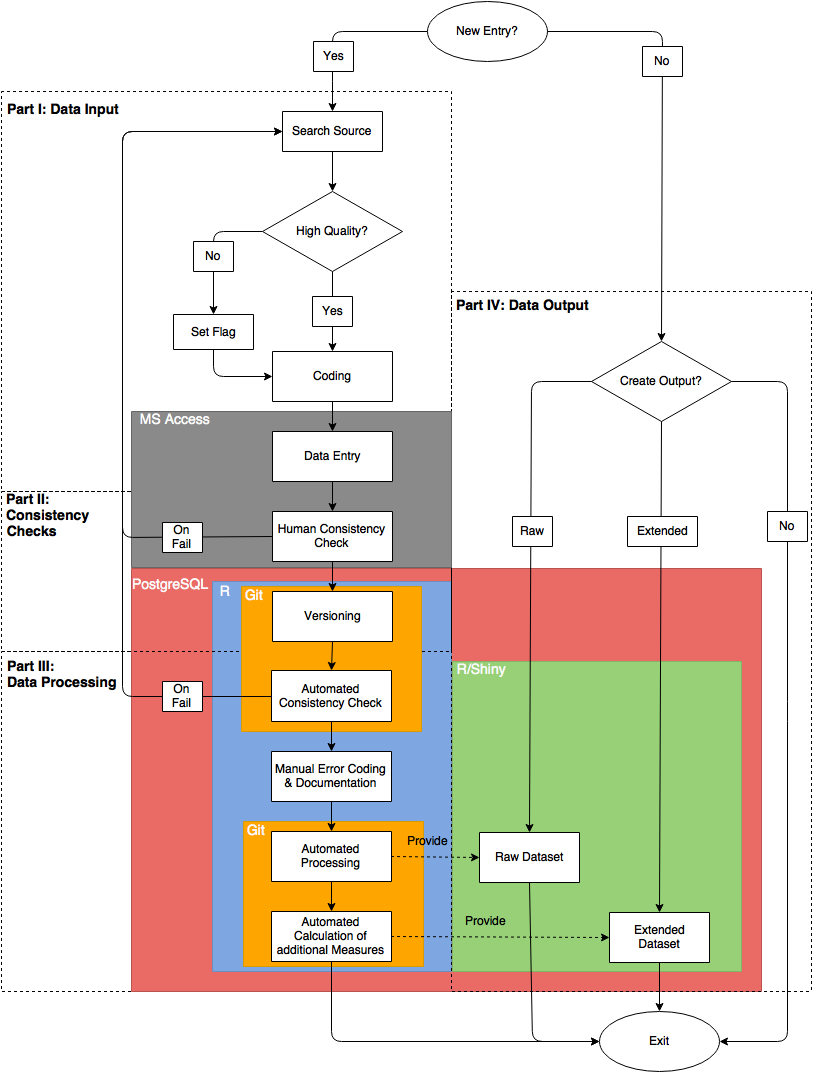
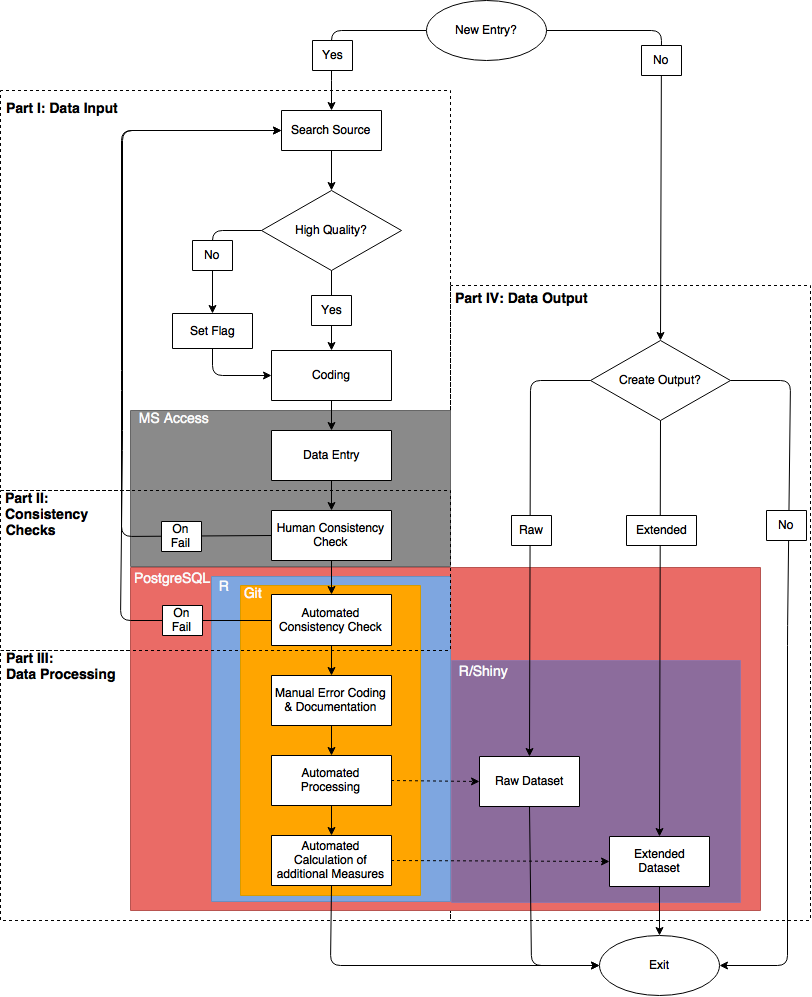
Updated Diagram and Text - Ready for revision - Minor changes in the diagram are still necessary

diff --git a/md/draft.md b/md/draft.md
@@ -15,7 +15,7 @@ members in a standardized and easily accessible format.
 Originally, the data were used to observe and analyze the
 consolidation processes in Eastern and Middle European
 democracies. The project has since grown into a
-database that includes more than seventy countries around
+database that includes more than eighty countries around
 the world between 1945 and today.
 
 The database keeps track of diverse aspects of political
@@ -59,221 +59,57 @@ for secondary analyses.
 
 !["Workflow diagram of our database"](./GovElec_Workflow_May2k16.png)
 
-Our workflow {~~can be distinguished->has~~} {--into--} four
-separate steps. {++Data first have to be hand coded. Second,
-codings go through different human supervised and automated
-consistency checks. Third, the newly generated data are
-processed before storing them in our back-end database.
-Finally, information can be outputted from our database. All
-steps ++} {--which--} can be fulfilled independently of each
-other. Apart from the single steps of the workflow, the
-colored areas document the software and tools that is used
-in each step. Our team consists of one student assistant,
-two research fellows as well ons senior research fellow.
-While the first is responsible for the coding and input of
-the data as well as some basic consistency checks, automated
-data tests as well as processing are maintained by our
-research fellows. A codebook lists the majority of coding
-decisions that are needed to enter the data correctly by our
-research assistant.
+Our workflow has four separate steps. Data first have to be hand coded. Second,
+codings go through different human supervised and automated consistency checks. Third, the newly generated data are processed before storing them in our back-end database. Finally, information can be outputted from our database. All
+steps can be fulfilled independently of each other.
 
-In general, we are concerned with three basic challenges
-while collecting, coding and processing our data: reduce
-coding errors, maintain a high degree of intercoder
-reliability and provide a transparent documentation of
-coding decisions and data processing. The following
-paragraphs will specifically focus on these challenges.
+Our team consists of one student assistant, two research fellows and one senior researcher. While the first is responsible for the coding and input of the data as well as some basic consistency checks, automated data tests and processing are maintained by our research fellows. In general, we are concerned with three basic challenges while collecting, coding and processing our data: reduce coding errors, maintain a high degree of intercoder reliability and provide transparency on the entire decision-making process. The following
+paragraphs will focus on these challenges.
 
-\textbf{Part I:}
+The first decision to be made is whether a new observation needs to be added to the dataset. For that purpose we collect all upcoming elections and government formations for our sample of 82 countries in the world. Once a new data entry is necessary, sources are identified by the coder that contain information on party histories, election results and/or government events. Evaluating the quality of the source is essential since only documents which provide us with information as disaggregated as possible guarantee that we can reliably and correctly code the respective data. For that purpose, a list of high quality sources is included in a codebook that also lists all coding decisions. If, due to lack of reliable sources, information from non-identified documents is used, these data entries are flagged in order to identify more reliable sources in the future. This is for instance the case if election results are documented as aggregated vote and seat shares instead of as absolute numbers. Once a source has been identified, the data is coded manually following the rules of the codebook.
 
-{--As can be seen in the workflow diagram, t--}
-The first decision to be made is whether a new observation
-needs to be added to the dataset. For that purpose we
-identify all upcoming elections and government formations
-within our country sample of 70(???) countries in the world.
-Once a new data entry is necessary, adequate sources have to
-be identified by the coder in order to ensure the correct
-documentation of party histories, election results and/or
-government events.
+In the following the data is entered into a _Microsoft Access_ Database and the source (including the coding decisions) is saved on a server which can be assessed by all users of the output-datasets. Although MS Access is not a free software-tool, it provides a) a relational database that can be easily maintained by research fellows and b) a user interface that makes the data entry clear and easily understandable. Hence, due its form-based structure the _MS Access_ interface serves as a standardized coding structure that reduces error and increases intercoder reliability. Moreover, the _MS Access_ interface allows to perform basic consistency checks which enable the coder to easily evaluate the reliability of sources. To give two examples: One such check routine is to verify that the sum of the documented number of votes equals the total number of valid votes given in the source. Another consistency check tests if the seat share of all parties in a coalition government does correspond to the documented type of government. If one of these checks fails, new sources have to be considered in order to reach an error-free documentation of the data.
 
-Evaluating the quality of the source is essential for us
-since only those election and government documents that
-provide us with information as disaggregated as possible
-guarantee that we can reliably and correctly code the
-respective data. For that purpose, a list of high quality
-sources is included in the codebook. If, due to lack of
-reliable sources, information from non-identified sources
-has been used, these data entries are flagged in order to
-identify more reliable sources in the future. Once a source
-has been identified, the data is coded manually following
-the rules of the codebook.
+After the data entry has been finalized, it is automatically exported to a PostgreSQL-Database which allows us to store the entire dataset and to put it under version control using _Git_. Changes to the dataset are thus documented on a daily basis. At the same time, automated, more complex consistency checks are performed by making use of the open source statistic software _R_ (https://www.r-project.org/). Based on these, pdf reports are created using the _R_-package _knitr_ (http://yihui.name/knitr/) and send to one of our research
+fellows. These reports document all new data entries, all data changes and failed consistency checks. Due to this, the work of our coder can easily be tracked by experienced colleagues and possible coding errors are spotted immediately.
 
-\textbf{Part II:}
+After that, manual error coding is conducted and documented. In spite of our aspiration to exclusively collect data from high quality sources certain inconsistencies cannot be avoided. For example, sometimes we cannot identify the seats controlled by a coalition government in the parliament since its member parties have contested the previous election in different electoral pacts for which no individual party seat shares are provided. These and other cases are identified by the automated R-scripts. However due to the diversity of inconsistencies and reasons for them, they are manually flagged and documented.
 
-Based on this the data is entered into a Microsoft Access
-Database and the source (including the coding decisions) is
-saved on a server which can be assessed by all users of the
-dataset. Although MS Access is not a free software, tool, it
-provides a) a relational database that can be easily
-maintained by research fellows and b) a user interface that
-makes the data entry clear and easily understable even for
-new coders. Hence, our student assistants can quickly
-acquire the knowledge necessary to document the data with
-the codebook, while the MS Access interface serves as a
-\textcolor{red}{{++standardized++} coding structure} that
-reduces error{--s--} and facilitates a high{--er--} degree
-of intercoder reliability.
+Following this, the R-scripts process the data, i.e. they join different tables and drop irrelevant variables, in order to provide a raw dataset that includes basically all data entries without any additional measures. Based on this raw dataset, further additional calculations are conducted in order to provide an extended dataset that includes common measures in the discipline (like turnout, the effective number of parties, measurements of
+disproportionality or government stability).
 
-\textbf{Part III:}
+After these steps are finished, both datasets are publicly accessible via Shiny-Interface (http://shiny.rstudio.com/) which allows the end-user to browse and download the raw as well as the extended dataset. In addition the aforementioned codebook of the database can be downloaded in order to guarantee a high transparency of coding decisions.
 
-Moreover, the MS Access interface allows to perform basic
-consistency checks with the consequence that the coder can
-easily evaluate the reliability of the used sources and its
-information. As can be seen in the workflow diagram, if
-these checks fail, new sources have to be considered in
-order to reach an error-free documentation of the data.
-
-After the data entry has been finalized by the coder, the
-data is automatically \textcolor{red}{exported} to a
-PostgreSQL-Database which allows us to store the dataset and
-to put it under version control. {~~On a daily basis,
-c->C~~}hanges {~~in->to~~} the dataset are documented {++on
-a daily basis++}. At the same time, automated, more complex
-consistency checks are performed by making use of the open
-source statistic software
-R.\footnote{https://www.r-project.org/.} Based on these, pdf
-reports are created using the R-package
-\textit{knitr}\footnote{\textit{knitr}
-(http://yihui.name/knitr/) allows to create dynamic \LaTeX-
-documents with R.} and send to one of our research
-fellows/seniors(?). These include a documentation of all new
-data entries, of all data changes as well as a list of
-failed consistency checks. Due to this, the work of our
-coder {~~is->can~~} easily {~~trackable->be tracked~~} by
-experienced colleagues and possible coding errors
-{~~can->are~~} easily {~~detected->spotted~~}.
-
-Apart from performing consistency checks, the R-scripts also
-process the data, i.e. {++they++} join different tables and
-drop irrelevant variables, in order to provide a raw dataset
-which includes basically all data entries without any
-additional measures. After that, manual error coding is
-conducted and documented if no high-quality source is
-available or the correct coding of the data fails for some
-other reasons (e.g. specific electoral systems). Based on
-this raw dataset, further additional calculations are
-conducted using R in order to provide an extended dataset
-that includes additional common measures in the discipline
-(such as the effective number of parties, the Gallagher
-“Least Squares Index” or the Balance of powers Index).
-
-\textbf{Part IV:}
-
-After these steps are finished, the dataset is publicly
-accessible via Shiny-Interface\footnote{Shiny is a web
-application framework for R. See http://shiny.rstudio.com/.}
-which allows the enduser (currently the members of our
-research department) to browse and download the raw as well
-as the aggregated dataset. In addition the aforementioned
-codebook of the database can be downloaded in order to
-guarantee a high transparency of coding decisions.
+<font color="red">Words: 844/800</font>
 
 # Pain points
 
-One pain point {--in our procedure of data collection and
-processing --}is to manually code and document cases that do
-not fit our pre-defined coding scheme. That is for instance
-the case for our documentation of political parties and
-their election results. In many countries, the histories of
-political parties and electoral alliances do not resemble
-the ``well''-structured party systems of Western Europe for
-whom the database was originally designed. Frequently
-changing electoral alliances, local electoral pacts or
-implosions of entire party systems (as in Italy in the mid-
-1990s) confront us with serious difficulties in identifying
-and coding political parties and their electoral performance
-on a continuous basis. Occasionally, coding decisions are
-made in these cases that do not correspond to the codebook.
-While all codings that differ from those provided in the
-codebook are documented in a specified column of the dataset
-and is, thus, easily accessible, this information is
-difficult to integrate into analyses by the enduser.
+One pain point is to manually code and document cases that do not fit our pre-defined coding scheme. That is for instance the case for our documentation of political parties and their election results. In many countries, the histories of political parties and electoral alliances do not resemble the "well"-structured party systems of Western Europe for whom the database was originally designed. Frequently changing electoral alliances, local electoral pacts or implosions of entire party systems (as in Italy in the mid-1990s) confront us with serious difficulties in identifying and coding political parties and their electoral performance on a continuous basis. As denoted above, these deviant cases are so multifaceted that they can hardly be captured by consistent error codings. For that reason no specific guideline is given in the codebook and every case needs to be commented by hand. The final datasets contain each of these commentaries so that also these "coding outliers" are made transparent to the end-user. Nevertheless, they are difficult to be integrated in the final analysis for the researcher since every single case has to be considered individually.
 
-A second pain point refers to the history of the development
-of the database and the corresponding inter-coder
-reliability. Most often, the current coder (student
-assistant) does only know a limited number of his or her
-predecessors with the consequence that there is no guarantee
-that specific coding decisions (which cannot be directly
-derived from the codebook due to their rare appearance) are
-made consistently across coders. Hence, we are confronted
-with {--a--} highly {~~hierarchized->individualized~~}
-knowledge concerning coding decisions on which we cannot be
-sure that they were transparently handed down to future
-coders. As noted by \citet[141]{krippendorf_content_2000},
-``without the establishment of reliability, content analysis
-measures are useless.'' For that reason, one specific task
-of the present is also to accurately check past codings in
-order to guarantee that the database includes the same
-information over time.
+A second pain point refers to the history of the development of the database and the corresponding inter-coder reliability. Most often, the current coder (student assistant) does only know a limited number of his or her predecessors with the consequence that there is no guarantee that specific coding decisions (which cannot be directly derived from the codebook due to their rare appearance) are made consistently across coders. Hence, we are confronted with highly individualized knowledge concerning coding decisions on which we cannot be sure that they were transparently handed down to future coders. To put this simple, in spite of the existence of a extensive codebook we can give only limited information concerning the intercoder reliability of our project. For that reason, one specific task of the present is also to accurately check past codings in order to guarantee that the database includes the same information over time.
+
+<font color="red">Words: 330/200-400</font>
 
 # Key benefits
+One central concern of our workflow is to make our procedure of data collection and processing transparent to the end-user. While a number of datasets on election results, government formations or electoral systems exists, none provides sufficient information to retrace the process of data coding back to the initial source. For that reason, we provide the end-user with a codebook that lists all regular coding decisions. As denoted above, data entries that do not follow these rules are coded and commented in a special way which can be assessed within the datasets that we provide. Moreover, we give the user the opportunity to also consider the original source we used to enter the data along with the corresponding coding decisions which are annotated on the source document. As mentioned in the introduction of this case study, there exist manifold ways to collect and aggregate data on political parties, elections and governments. Only if the researcher has perfect control and knowledge over the dataset and the corresponding decisions made during it creation, he or she can be sure that her or his analysis is not flawed by irregular or unexpected coding decisions. For that reason, we believe that our approach helps to ensure a high level of quality in the field of comparative politics.
 
-One central concern of our workflow is to make our procedure
-of data collection and processing transparent to the end-
-user. While a number of datasets on election results,
-government formations or electoral systems exists, none
-provides sufficient information to retrace the process of
-data coding back to the initial source. For that reason, we
-provide the end-user with a codebook that lists all regular
-coding decisions. If data entries do not follow these rules,
-these "irregular" codings are commented in specific
-\textcolor{red}{remark-fields} which can be assessed within
-the datasets that we provide. Moreover, we give the user the
-opportunity to also consider the original source used to
-enter the data along with the corresponding coding decisions
-which are annotated on the source document. As mentioned in
-the introduction of this case study, there exist manifold
-ways to collect and aggregate data on political parties,
-elections and governments. Only if the researcher has
-perfect control and knowledge over the dataset and the
-corresponding decisions made during this process, he or she
-can be sure that her or his analysis is not flawed by
-irregular or unexpected coding decisions. For that reason,
-we believe that our approach helps to ensure a high level of
-quality in the research field of comparative politics.
+
+<font color="red">Words: 213/200-400</font>
+
 
 # Key tools
 
-The core of our workflow is certainly the
-PostgreSQL-database, which allows us not only to easily
-store a relational database on a
-server.\footnote{https://www.postgresql.org/} In contrast to
-the Microsoft Access database, which we use in order to
-provide an easily accessible user interface for the data
-entry, PostgreSQL is a free object-relational database
-management system and comes with no charge. Due to its
-excellent compatibility with other important software of our
-workflow, such as Microsft Access and R (and with this knitr
-and Shiny), it constitutes a flexible tool that also allows
-us to version control our database. Moreover it gives us the
-opportunity to automatically produce periodic reports on
-changes in the dataset as well as to quickly identify failed
-consistency checks. This facilitates us to ensure a high
-quality of the data. Apart from these automated procedures,
-it enables us to access all versions of the database either
-via a version control system such as \textit{git}.
-Furthermore, the version control allows the enduser to
-access any data version of the past so that past research
-results can be easily reproduced without dealing with
-updates of the datatset.
+The core of our workflow is certainly the PostgreSQL-database, which allows us  to easily store a relational database. In contrast to the Microsoft Access database, which we use in order to provide an easily accessible user interface for the data entry, PostgreSQL is a object-relational database management system that comes with no charge. Due to its compatibility with other important software of our workflow, such as _Microsft Access_, _Git_ and _R_ (and with this _knitr_ and _Shiny_), it constitutes a flexible tool. Due to this, we can automatically produce periodic reports on changes in the dataset as well as  quickly identify failed consistency checks. This facilitates us to ensure a high quality of the data. Apart from these automated procedures, it enables us to access all versions of the database and the corresponding _R_-scripts via a version control system such as _git_. This allows the end-user to access any data version of the past so that past research results can be easily reproduced without dealing with updated versions of the datasets.
+
+<font color="red">Words: 171/200-400</font>
+
 
 # General questions about reproducibility
 
 1. __Why do you think that reproducibility in your domain is important?__
   Political scientists learn from empirical experience. If
   contributions to our field are not transparent enough to be
-  reproduced, then nothing can be learned from them. However, 
+  reproduced, then nothing can be learned from them. However,
   reproducibility covers both data generation and analysis.
   The Garbage-In-Garbage-Out principle applies to all studies
   that fail on either side of the equation.  
@@ -284,7 +120,7 @@ updates of the datatset.
   the two together.
 3. __What do you see as the major pitfalls to doing reproducible research in your domain, and do you have any suggestions for working around these? Examples could include legal, logistical, human, or technical challenges.__
   We see two major pitfalls. First, political
-  scientists often receive strong training in qualitative or 
+  scientists often receive strong training in qualitative or
   quantitative methods, but not in basic data management.
   For example, it is not unheard of that graduate students
   merge datasets row by row in Excel. Much would be gained
@@ -295,7 +131,7 @@ updates of the datatset.
   analysis poorly documented. To ensure at least a minimal
   level of reproducibility the provision of replication
   packages containing raw data, data management and analysis
-  scripts should be made mandatory. 
+  scripts should be made mandatory.
 4. __What do you view as the major incentives for doing reproducible research?__
   Political scientists learn from experience. Reproducible
   research hence establishes a baseline against which to
